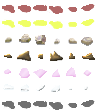
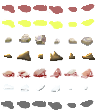
ADD New art for the bubble

diff --git a/src/BubbleEntity.cpp b/src/BubbleEntity.cpp
@@ -67,6 +67,13 @@ BubbleEntity::BubbleEntity(float x, float y, EnumBubbleType bubbleType, int bubb
     resistance[ResistanceIce] = ResistanceVeryHigh;
     resistance[ResistanceFire] = ResistanceVeryLow;
   }
+  else
+  {
+    sprite.setTexture(*ImageManager::getInstance().getImage(IMAGE_EYE));
+    imagesProLine = 12;
+    shadowFrame = 23;
+    spin = 20 + rand() % 20;
+  }
 
   width = 128;
   height = 128;
@@ -85,6 +92,48 @@ void BubbleEntity::calculateBB()
   boundingBox.width = 100 * sprite.getScale().x;
   boundingBox.top = (int)y - 50 * sprite.getScale().x;
   boundingBox.height =  100 * sprite.getScale().x;
+}
+
+void BubbleEntity::animate(float delay)
+{
+  if (bubbleType != BubbleIce)
+  {
+    if (age > 0)
+      frame = ((int)(age * (15.0f + 4.0f * (float)bubbleSize))) % 18;
+    else
+      frame = 0;
+  }
+  EnemyEntity::animate(delay);
+}
+
+void BubbleEntity::render(sf::RenderTarget* app)
+{
+  if (bubbleType != BubbleIce)
+  {
+    // shadow
+    sprite.setPosition(x, y + 5);
+    sprite.setTextureRect(sf::IntRect(11 * width, 1 * height, width, height));
+    app->draw(sprite);
+
+    // eye
+    sprite.setRotation(age * spin);
+    sprite.setPosition(x, y);
+    int nx = frame % imagesProLine;
+    int ny = frame / imagesProLine;
+    sprite.setTextureRect(sf::IntRect(nx * width, ny * height, width, height));
+    app->draw(sprite);
+
+    // lightning
+    sprite.setRotation(0);
+    sprite.setTextureRect(sf::IntRect(6 * width, height, width, height));
+    app->draw(sprite);
+
+    nx = 7 + (int)(age * 5) % 4;
+    sprite.setTextureRect(sf::IntRect(nx * width, height, width, height));
+    app->draw(sprite);
+  }
+  else
+    EnemyEntity::render(app);
 }
 
 void BubbleEntity::collideMapRight()

diff --git a/src/BubbleEntity.h b/src/BubbleEntity.h
@@ -12,6 +12,9 @@ class BubbleEntity : public EnemyEntity
     virtual void calculateBB();
     int getBubbleSize();
 
+    virtual void animate(float delay);
+    virtual void render(sf::RenderTarget* app);
+
   protected:
     virtual void collideMapRight();
     virtual void collideMapLeft();
@@ -19,7 +22,6 @@ class BubbleEntity : public EnemyEntity
     virtual void collideMapBottom();
 
     virtual void dying();
-
     virtual void collideWithEnemy(EnemyEntity* entity) override;
   private:
     int bubbleSize;

diff --git a/src/WitchBlastGame.cpp b/src/WitchBlastGame.cpp
@@ -287,7 +287,8 @@ WitchBlastGame::WitchBlastGame()
     "media/evil_flower.png",   "media/slime.png",
     "media/imp.png",           "media/spider_egg.png",
     "media/spider_web.png",    "media/little_spider.png",
-    "media/bubble.png",        "media/witch.png",
+    "media/bubble.png",        "media/eyeball.png",
+    "media/witch.png",
     "media/cauldron.png",      "media/snake.png",
     "media/pumpkin.png",       "media/ghost.png",
     "media/zombie.png",        "media/bogeyman.png",

diff --git a/src/Constants.h b/src/Constants.h
@@ -100,6 +100,7 @@ enum enum_images {
   IMAGE_SPIDER_WEB,
   IMAGE_LITTLE_SPIDER,
   IMAGE_BUBBLE,
+  IMAGE_EYE,
   IMAGE_WITCH,
   IMAGE_CAULDRON,
   IMAGE_SNAKE,
